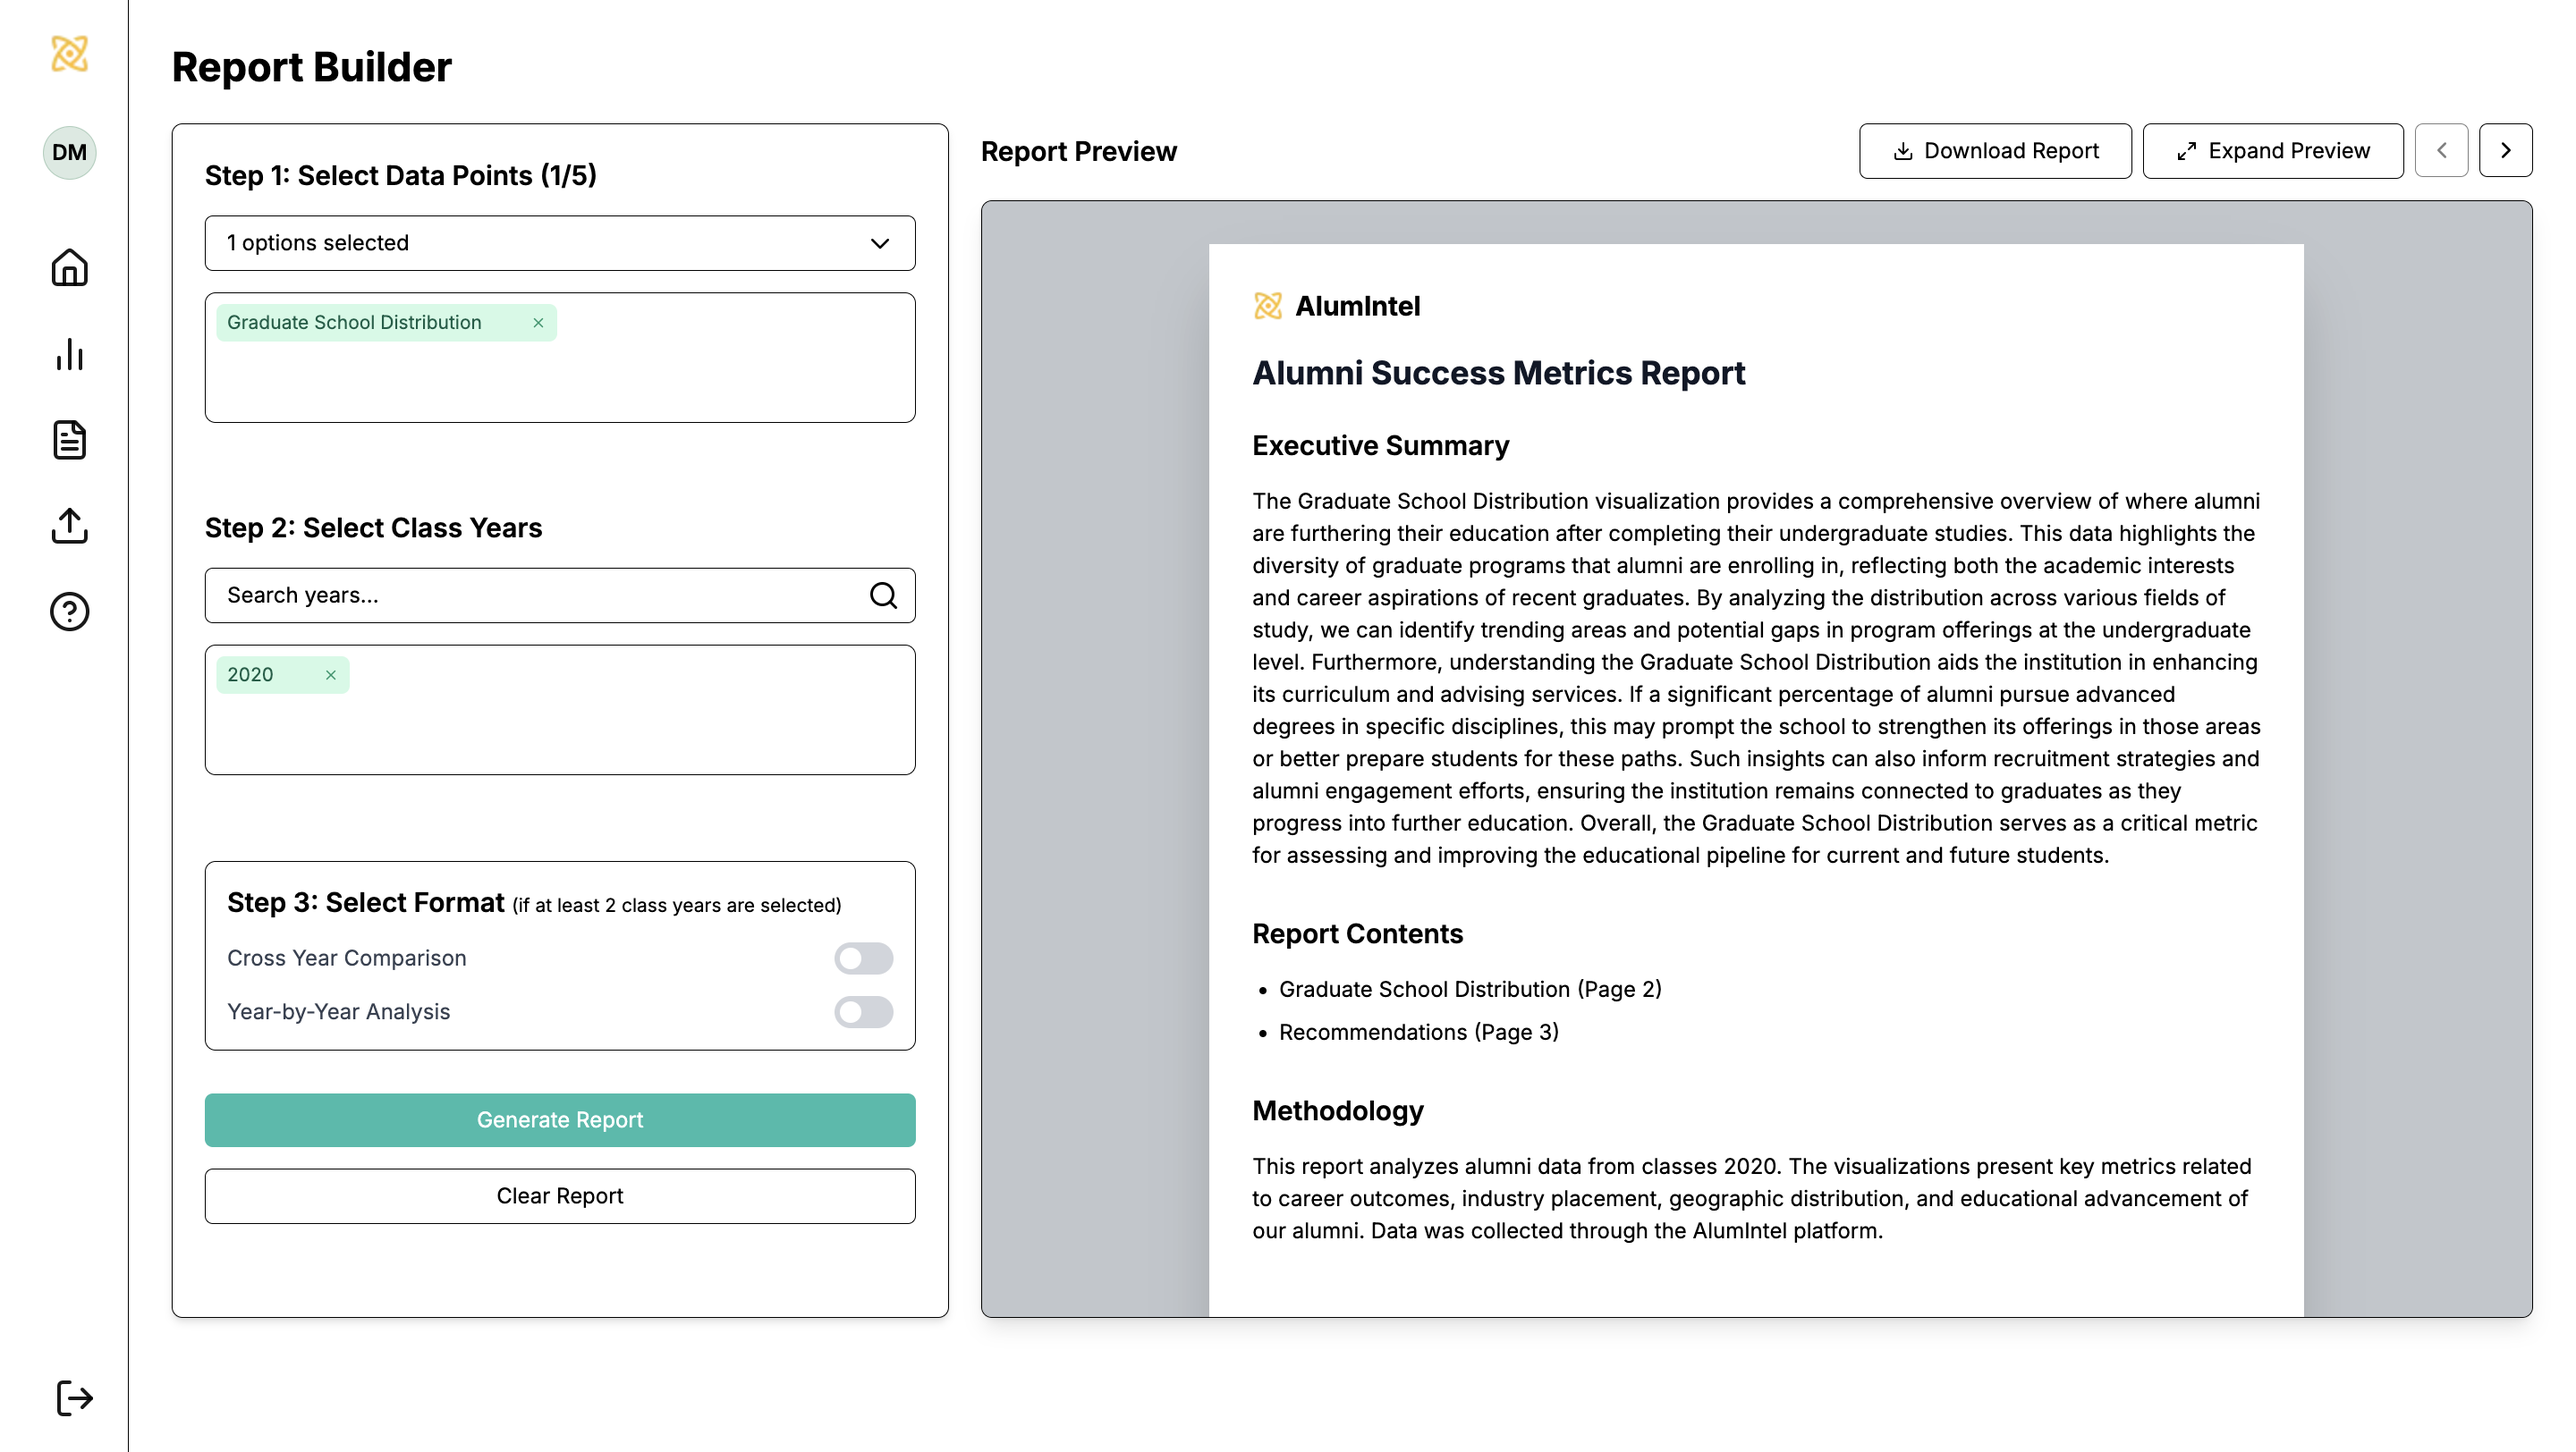
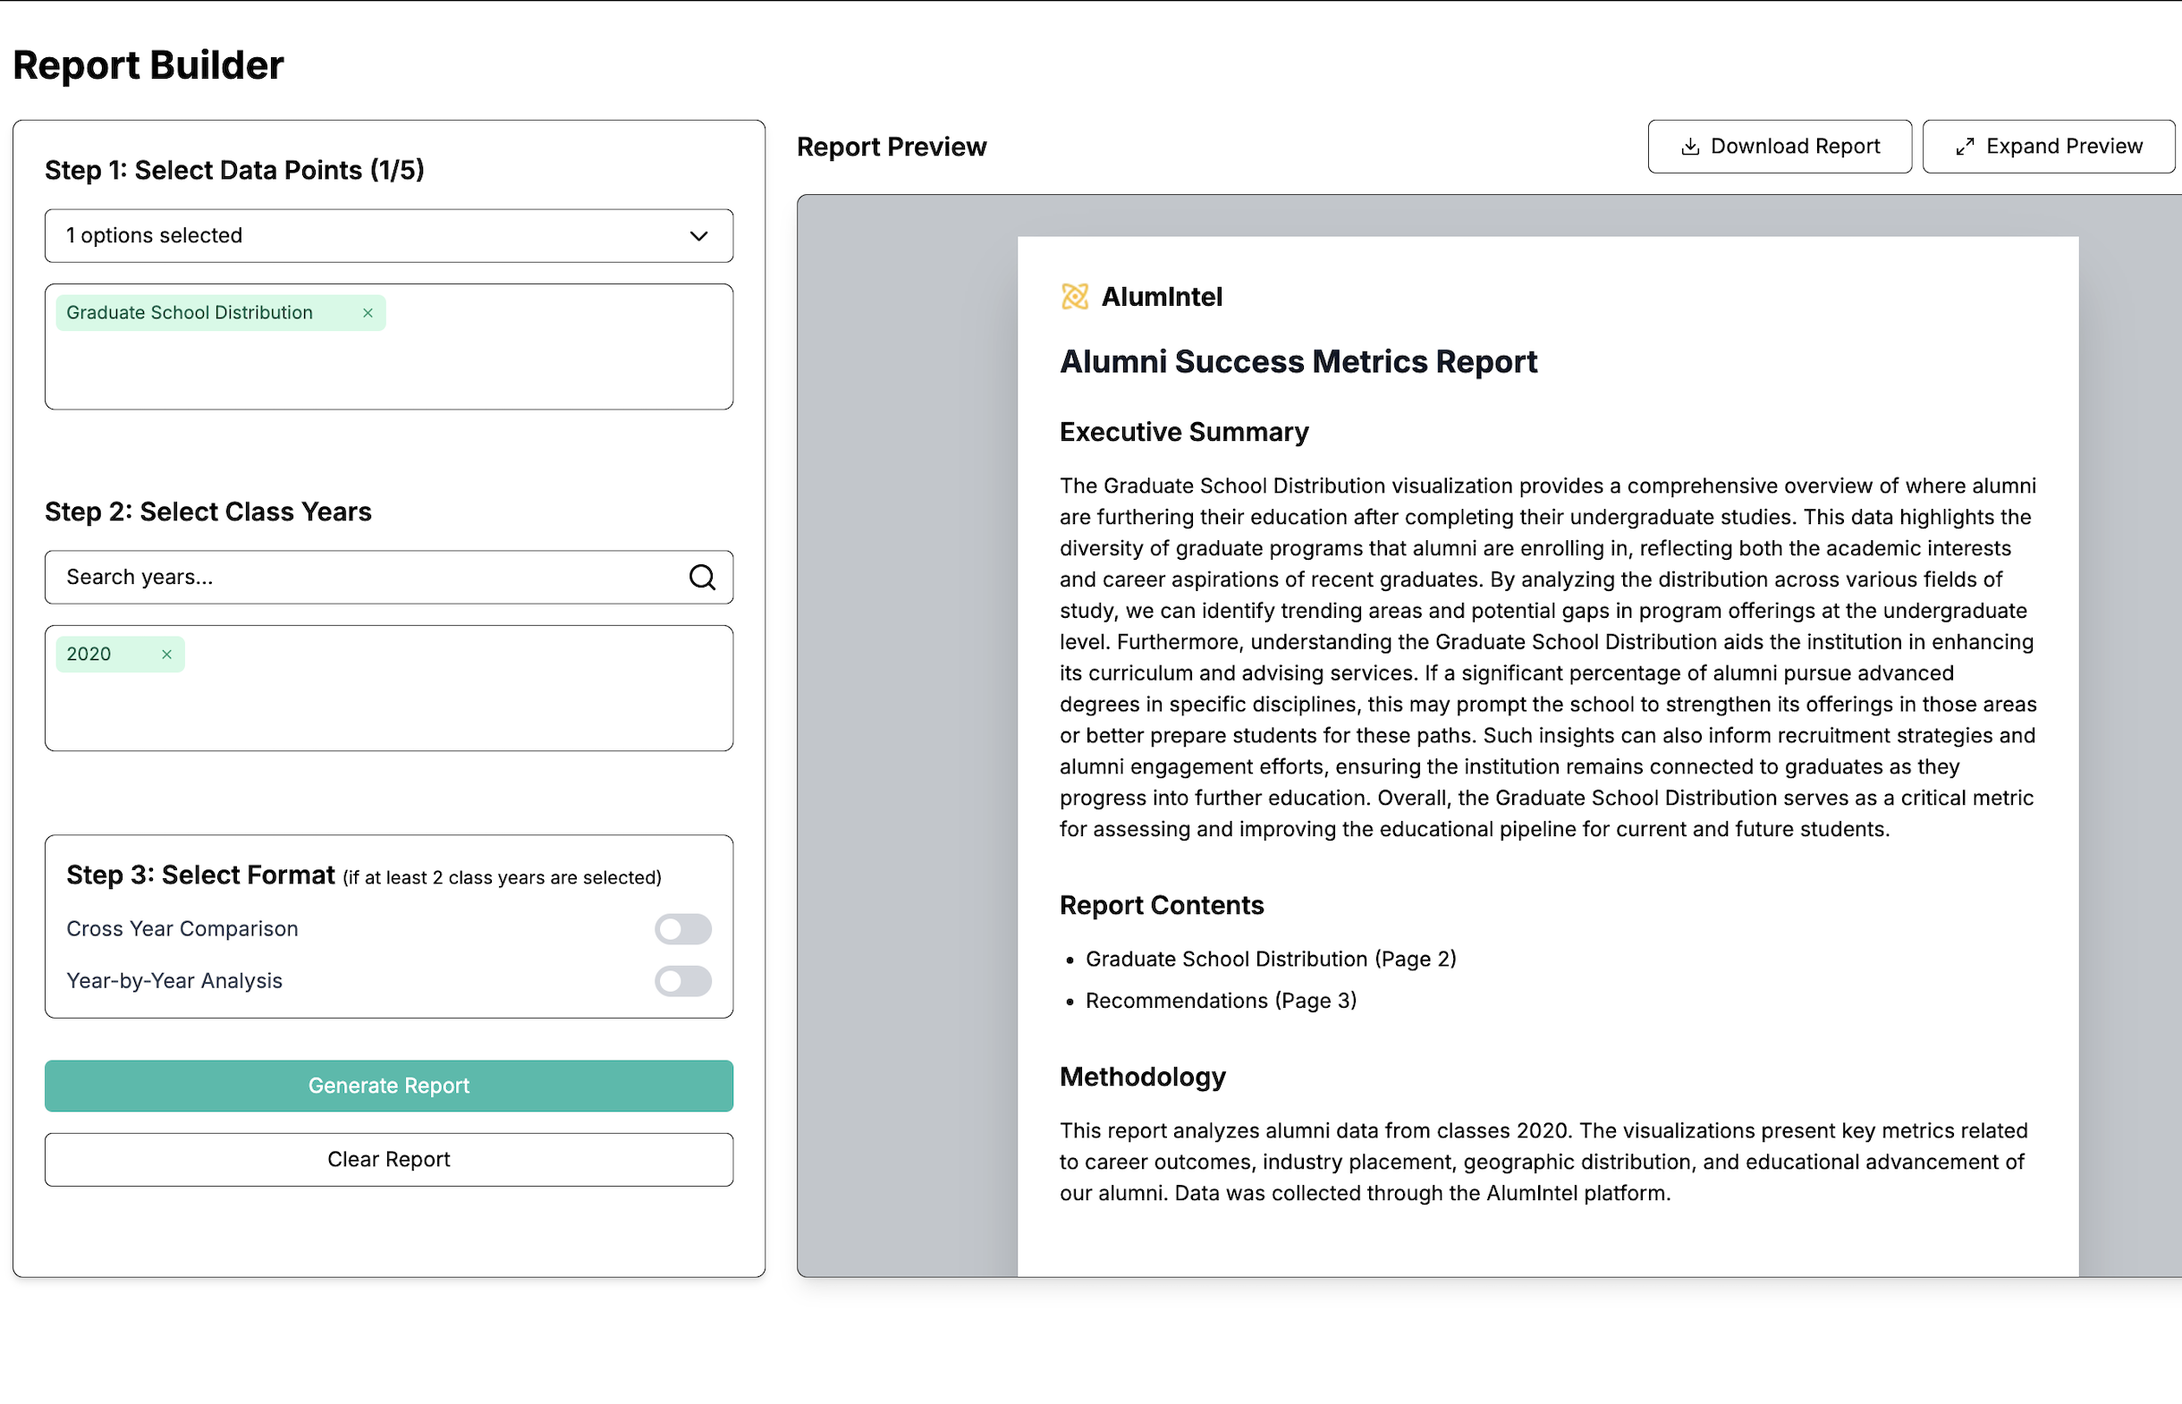
oi

diff --git a/components/FeaturesSection.tsx b/components/FeaturesSection.tsx
@@ -404,7 +404,7 @@ export default function FeaturesSection() {
       {/* Feature 3: Reports - Redesigned Layout */}
       <section 
         ref={reportsRef}
-        className={`py-24 bg-white transition-all duration-1000 ease-in-out border-t border-b border-black border-[0.5px] ${
+        className={`pt-12 pb-24 bg-white transition-all duration-1000 ease-in-out border-t border-b border-black border-[0.5px] ${
           reportsInView ? 'opacity-100 translate-y-0' : 'opacity-0 translate-y-10'
         }`}
       >
@@ -478,8 +478,8 @@ export default function FeaturesSection() {
             </div>
           </div>
           
-          {/* Added padding at the end of the section */}
-          <div className="pb-32"></div>
+          {/* Added padding at the end of the section - slightly reduced */}
+          <div className="pb-24"></div>
         </div>
       </section>
     </>
